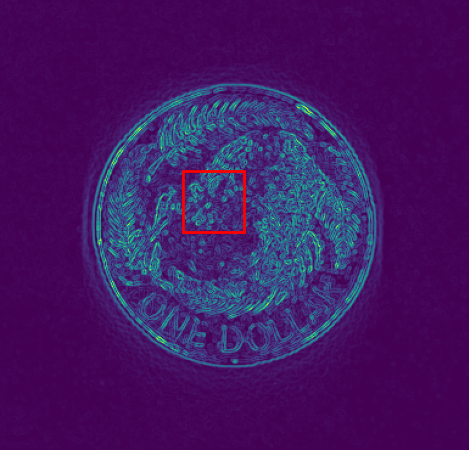
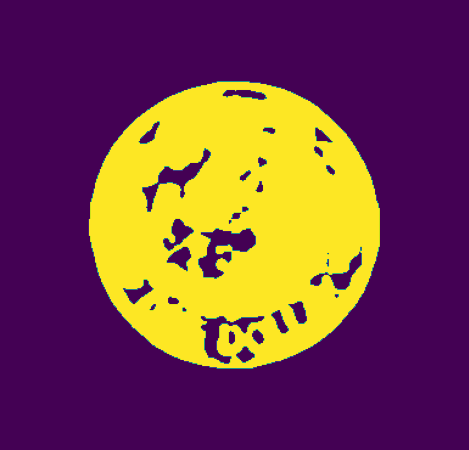
Finished step 4 threshold

diff --git a/CS373_coin_detection.py b/CS373_coin_detection.py
@@ -9,12 +9,17 @@ from matplotlib.patches import Rectangle
 
 # import our basic, light-weight png reader library
 import imageIO.png
-from Utils.contrast_stretch import contrast_stretch
+from Utils.adaptive_thresholding import adaptive_thresholding
+from Utils.contrast_stretch import contrast_stretch, get_histogram
 from Utils.convert_to_greyscale import convert_to_greyscale
 from Utils.edge_detection import edge_map
+from Utils.mean_filter import image_blur
+from Utils.show_histogram import plot_histogram
+from Utils.threshold_image import threshold_image
 
 # Define constant and global variables
-TEST_MODE = False    # Please, DO NOT change this variable!
+TEST_MODE = False  # Please, DO NOT change this variable!
+
 
 def readRGBImageToSeparatePixelArrays(input_filename):
     image_reader = imageIO.png.Reader(filename=input_filename)
@@ -53,8 +58,9 @@ def readRGBImageToSeparatePixelArrays(input_filename):
 
     return (image_width, image_height, pixel_array_r, pixel_array_g, pixel_array_b)
 
+
 # a useful shortcut method to create a list of lists based array representation for an image, initialized with a value
-def createInitializedGreyscalePixelArray(image_width, image_height, initValue = 0):
+def createInitializedGreyscalePixelArray(image_width, image_height, initValue=0):
     new_pixel_array = []
     for _ in range(image_height):
         new_row = []
@@ -70,13 +76,6 @@ def createInitializedGreyscalePixelArray(image_width, image_height, initValue = 
 ###########################################
 
 
-
-
-
-
-
-
-
 # This is our code skeleton that performs the coin detection.
 def main(input_path, output_path):
     # This is the default input image, you may change the 'image_name' variable to test other images.
@@ -88,21 +87,16 @@ def main(input_path, output_path):
     # we read in the png file, and receive three pixel arrays for red, green and blue components, respectively
     # each pixel array contains 8 bit integer values between 0 and 255 encoding the color values
     (image_width, image_height, px_array_r, px_array_g, px_array_b) = readRGBImageToSeparatePixelArrays(input_filename)
-    
+
     ###################################
     ### STUDENT IMPLEMENTATION Here ###
     ###################################
     px_array_grey = convert_to_greyscale(px_array_r, px_array_g, px_array_b)
-    px_stretched_array_grey = contrast_stretch(px_array_grey)
-    px_edge = edge_map(px_stretched_array_grey)
-    
-    
-    
-    
-    
-    
-    
-    
+    px_stretched_array_grey = contrast_stretch(px_array_grey)  # Step 1
+    px_edge = edge_map(px_stretched_array_grey)  # Step 2
+    px_blurred = image_blur(px_edge, times=3)  # Step 3
+    px_threshold = threshold_image(px_blurred, threshold=22)  # Step 4
+
     ############################################
     ### Bounding box coordinates information ###
     ### bounding_box[0] = min x
@@ -110,13 +104,14 @@ def main(input_path, output_path):
     ### bounding_box[2] = max x
     ### bounding_box[3] = max y
     ############################################
-    
-    bounding_box_list = [[150, 140, 200, 190]]  # This is a dummy bounding box list, please comment it out when testing your own code.
-    px_array = px_edge
-    
+
+    bounding_box_list = [
+        [150, 140, 200, 190]]  # This is a dummy bounding box list, please comment it out when testing your own code.
+    px_array = px_threshold
+
     fig, axs = pyplot.subplots(1, 1)
     axs.imshow(px_array, aspect='equal')
-    
+    """
     # Loop through all bounding boxes
     for bounding_box in bounding_box_list:
         bbox_min_x = bounding_box[0]
@@ -129,14 +124,15 @@ def main(input_path, output_path):
         bbox_height = bbox_max_y - bbox_min_y
         rect = Rectangle(bbox_xy, bbox_width, bbox_height, linewidth=2, edgecolor='r', facecolor='none')
         axs.add_patch(rect)
-        
+    """
+
     pyplot.axis('off')
     pyplot.tight_layout()
     default_output_path = f'./output_images/{image_name}_with_bbox.png'
     if not TEST_MODE:
         # Saving output image to the above directory
         pyplot.savefig(default_output_path, bbox_inches='tight', pad_inches=0)
-        
+
         # Show image with bounding box on the screen
         pyplot.imshow(px_array, cmap='gray', aspect='equal')
         pyplot.show()
@@ -145,16 +141,14 @@ def main(input_path, output_path):
         pyplot.savefig(output_path, bbox_inches='tight', pad_inches=0)
 
 
-
 if __name__ == "__main__":
     num_of_args = len(sys.argv) - 1
-    
+
     input_path = None
     output_path = None
     if num_of_args > 0:
         input_path = sys.argv[1]
         output_path = sys.argv[2]
         TEST_MODE = True
-    
+
     main(input_path, output_path)
-    

diff --git a/Utils/adaptive_thresholding.py b/Utils/adaptive_thresholding.py
@@ -1,0 +1,29 @@
+# Unused
+
+def adaptive_thresholding(H):
+    N = sum(H)
+    theta_0 = sum(i * H[i] for i in range(256)) / N  # Initial threshold
+
+    theta_j = theta_0
+    while True:
+        # Separate histogram into two parts using the current threshold
+        object_indices = range(int(theta_j) + 1)
+        background_indices = range(int(theta_j) + 1, 256)
+
+        N_obj = sum(H[i] for i in object_indices)
+        N_bg = sum(H[i] for i in background_indices)
+
+        if N_obj == 0 or N_bg == 0:
+            break  # Avoid division by zero
+
+        mu_obj = sum(i * H[i] for i in object_indices) / N_obj
+        mu_bg = sum(i * H[i] for i in background_indices) / N_bg
+
+        theta_j1 = 0.5 * (mu_obj + mu_bg)
+
+        if abs(theta_j1 - theta_j) < 1e-5:
+            break
+
+        theta_j = theta_j1
+
+    return theta_j

diff --git a/Utils/mean_filter.py b/Utils/mean_filter.py
@@ -1,0 +1,19 @@
+def mean_filter(pixel_array):
+    result_array = [[0.0 for _ in row] for row in pixel_array]
+
+    for row in range(2, len(pixel_array) - 2):
+        for col in range(2, len(pixel_array[row]) - 2):
+            accumulator = 0
+            for i in range(-2, 2 + 1):
+                for j in range(-2, 2 + 1):
+                    accumulator += pixel_array[row + i][col + j]
+            result_array[row][col] = abs(accumulator / 25)
+
+    return result_array
+
+
+def image_blur(pixel_array, times=3):
+    result_array = pixel_array
+    for i in range(times):
+        result_array = mean_filter(result_array)
+    return result_array

diff --git a/Utils/contrast_stretch.py b/Utils/contrast_stretch.py
@@ -1,17 +1,4 @@
-def get_histogram(px_array_grey):
-    histogram = [0] * 256
-    for row in px_array_grey:
-        for pixel in row:
-            histogram[pixel] += 1
-    return histogram
-
-
-def get_cumulative_histogram(histogram):
-    cumulative_histogram = [0] * 256
-    cumulative_histogram[0] = histogram[0]
-    for i in range(1, 256):
-        cumulative_histogram[i] = cumulative_histogram[i - 1] + histogram[i]
-    return cumulative_histogram
+from Utils.histogram import get_histogram, get_cumulative_histogram
 
 
 def find_percentile_value(cumulative_histogram, percentile_alpha, percentile_beta):

diff --git a/Utils/histogram.py b/Utils/histogram.py
@@ -1,0 +1,14 @@
+def get_histogram(px_array_grey):
+    histogram = [0] * 256
+    for row in px_array_grey:
+        for pixel in row:
+            histogram[round(pixel)] += 1
+    return histogram
+
+
+def get_cumulative_histogram(histogram):
+    cumulative_histogram = [0] * 256
+    cumulative_histogram[0] = histogram[0]
+    for i in range(1, 256):
+        cumulative_histogram[i] = cumulative_histogram[i - 1] + histogram[i]
+    return cumulative_histogram

diff --git a/Utils/threshold_image.py b/Utils/threshold_image.py
@@ -1,0 +1,9 @@
+def threshold_image(pixel_array, threshold=22):
+    result_array = [[0 for _ in row] for row in pixel_array]
+    for i in range(len(pixel_array)):
+        for j in range(len(pixel_array[i])):
+            if pixel_array[i][j] < threshold:
+                result_array[i][j] = 0
+            else:
+                result_array[i][j] = 255
+    return result_array

diff --git a/Utils/show_histogram.py b/Utils/show_histogram.py
@@ -1,0 +1,12 @@
+import matplotlib.pyplot as plt
+
+
+def plot_histogram(histogram):
+    plt.figure(figsize=(10, 6))
+    plt.plot(histogram, color='black')
+    plt.title('Greyscale Histogram')
+    plt.xlabel('Pixel Intensity')
+    plt.ylabel('Frequency')
+    plt.xlim([0, 256])
+    plt.grid(True)
+    plt.show()
